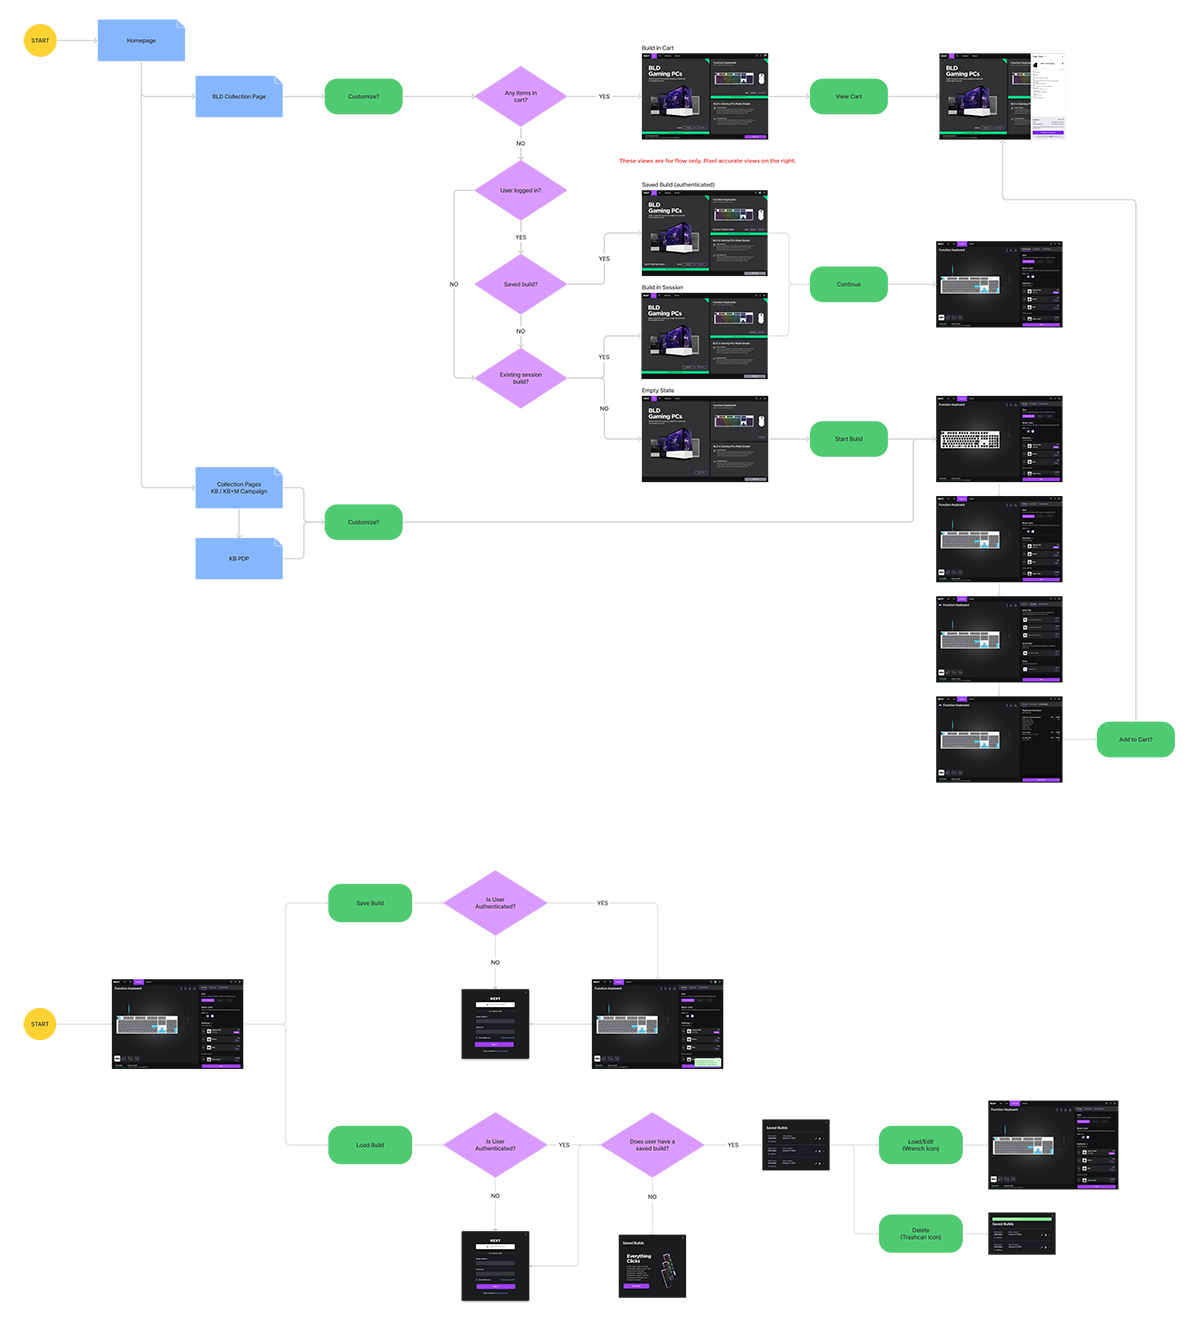
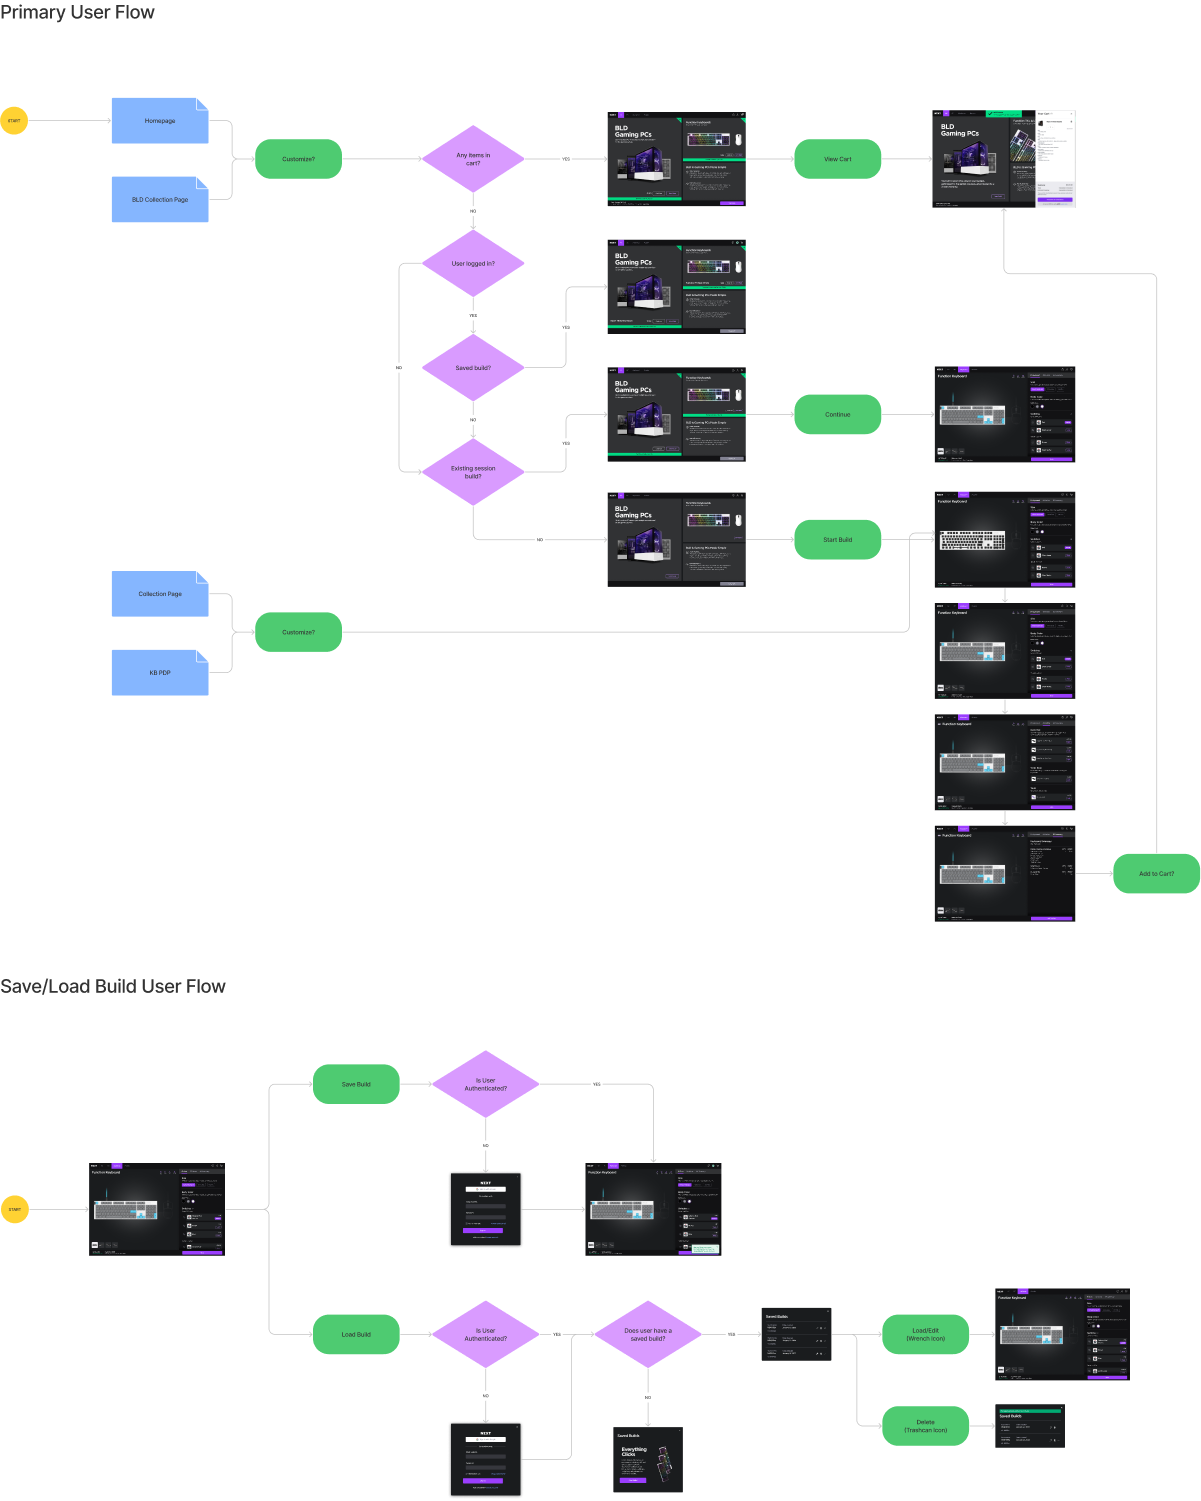
case study update

diff --git a/work/project-1.html b/work/project-1.html
@@ -30,11 +30,22 @@
 <p class="caption">A low fidelity prototype of our early concept.</p>
 <hr>
 <h3>Keyboard &amp; Mouse Configurator</h3>
-<p>While our existing PC configurator gave us a starting point in terms of UI elements and design patterns, customizing a keyboard is very different from customizing a PC. We would need a user experience that felt tailored for keyboards.</p>
-<p><strong>Market Research</strong><br>We began by doing some competitive analysis and research. Initially, we focused on other keyboard configurators, but quickly expanded that research into ALL configurators. Including products like cars, headphones, office chairs, knives, and guitars to name a few. This research, paired with data from our existing PC configurator, was pivotal in helping our team gain a clearer picture of how users customize any number of products.</p>
+<p>Although customizing a keyboard is very different from customizing a PC, we could still leverage user data and feedback from our existing PC configurator. This would allow us to incorporate any learnings from PC into our new custom keyboard experience.</p>
+<p><strong>User Research</strong><br>We partnered with our Research team to create a survey for users who purchased a custom PC using our current configurator experience. Our goals for this survey were to:
+<ol>
+    <li>Measure overall level of customer satisfaction</li>
+    <li>Identify customer pain points in the PC Building experience</li>
+    <li>Identify features and functionality gaps (opportunities)</li>
+</ol>
+</p>
+<p>We received nearly 500 survey responses. The survey gave us extremely valuable insights into what features were most important to our users, what pain points we needed to address, and what opportunities existed to improve the user experience.</p>
+<p><strong>Competitive Analysis</strong><br>Our next step was competitive analysis and market research. Initially, we focused on other keyboard configurators, but quickly expanded that research into ALL configurators. Including products like cars, headphones, office chairs, knives, and guitars to name a few. This research, paired with data from our existing PC configurator, was pivotal in helping our team gain a clearer picture of how users customize any number of products.</p>
 <img src="work/img/nzxt/nzxt-config-research.png" class="no-border">
-<p><strong>User Flows &amp; Wireframes</strong><br>This new research gave us the insight we needed to begin creating user stories and flows. This included mapping out all the many possible points for a user to enter and exit the configurator, as well as saving a build or loading a previous session. </p>
-<img src="work/img/nzxt/nzxt-user-flow.png" class="no-border">
+<p><strong>User Flows &amp; Wireframes</strong><br>We partnered with the Product team to synthesize all our new research into user stories and various other artifacts. Our tool of choice was FigJam for its simplicity and quick collaboration. Creating user flows helped us define entry points, reduce friction, and visualize how the user would complete tasks.</p>
+<img src="work/img/nzxt/nzxt-configurator-flows.png" class="no-border">
+<p class="caption">Example of a flow that helped us decide whether the configurator would function as a modal or a stand-alone experience.</p>
+<img src="work/img/nzxt/nzxt-configurator-flows2.png" class="no-border">
+<p class="caption">Example of a flow that visualizes where upsell/cross-sell opportunities should be introduced to the user.</p>
 <p>We then built out wireframes and worked closely with our Product and Engineering teams to iterate early and often. This consistent feedback loop kept us flexible as requirements changed and scope fluctuated.</p>
 <img src="work/img/nzxt/nzxt-kb-wireframes.png" class="no-border">
 <p class="caption">Early Wireframes for Keyboard Configurator</p>
@@ -56,6 +67,8 @@
 <hr>
 <h3>BLD Hub</h3>
 <p>If our goal was to unify these multiple product configurators into a single experience, we needed a home base for the user to return to. I recommended the addition of a BLD Hub to tie it all together. This would not only act as a starting point for all customizable products, it would also offer the user info on the status of their in-progress or saved builds.</p>
+<img src="work/img/nzxt/nzxt-user-flow.png" class="no-border">
+<p class="caption">Again, we built IA diagrams, and user flows to visualize how a user could navigate seamlessly between each product.</p>
 <img src="work/img/nzxt/nzxt-bld-hub-old.png" class="no-border">
 <p class="caption">The BLD Hub went through quite a lot of evolution.</p>
 <p><br></p>
